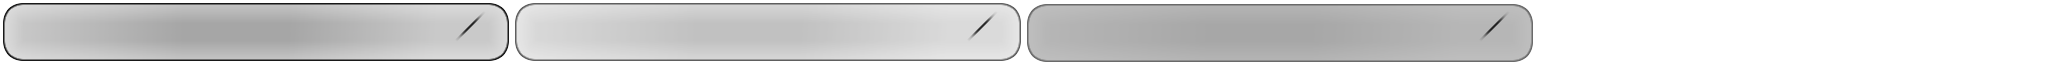
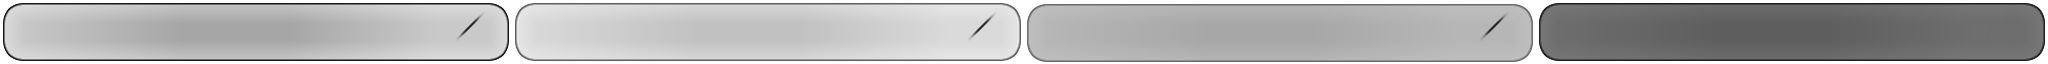
make cat select work.

Changed region(s): [[0.75, 0.0312, 1.0, 0.9688]]

diff --git a/logic/gui/category_select.py b/logic/gui/category_select.py
@@ -35,26 +35,26 @@ class GUI_category_select_container(GUI_element):
         GUI_category_go_back(self.game, self)
         self.mascot_object = Mascot_Category_Select(self.game)
 
-        category_names = OrderedDict([
-            ("Tutorial", (.5, 1.0, .5)),
-            ("Effortless", (1.0, .5, .5)),
-            ("Light", (1.0, .5, .5)),
-            ("Piece Of Cake", (.5, 1.0, 1.0)),
-            ("Uncomplicated", (1.0, .5, 1.0)),
-            ("Manageable", (1.0, 1.0, .5)),
-            ("Troublesome", (1.0, 1.0, .5)),
-            ("Formidable", (1.0, 1.0, .5)),
-            ("Demanding", (1.0, 1.0, .5)),
-            ("Heavy", (1.0, 1.0, .5)),
-            ("Challenging!", (1.0, 1.0, .5))
-            ])
+        categories = [
+            ("Tutorial",      "0001", (.5, 1.0, .5)),
+            ("Effortless",    "0002", (1.0, .5, .5)),
+            ("Light",         "0003", (1.0, .5, .5)),
+            ("Piece Of Cake", "0004", (.5, 1.0, 1.0)),
+            ("Uncomplicated", "0005", (1.0, .5, 1.0)),
+            ("Manageable",    "0006", (1.0, 1.0, .5)),
+            ("Troublesome",   "0007", (1.0, 1.0, .5)),
+            ("Formidable",    "0008", (1.0, 1.0, .5)),
+            ("Demanding",     "0009", (1.0, 1.0, .5)),
+            ("Heavy",         "0010", (1.0, 1.0, .5)),
+            ("Challenging!",  "0011", (1.0, 1.0, .5))
+            ]
         self.category_objs = []
 
         i = 0
         self.last_category = None
         self.first_category = None
-        for name,colour in category_names.items():
-            self.last_category = GUI_category_select_select_category_button(self.game, self, i, name, colour)
+        for name,pack_dir,colour in categories:
+            self.last_category = GUI_category_select_select_category_button(self.game, self, i, pack_dir, name, colour)
             self.category_objs.append(self.last_category)
             if self.first_category is None:
                 self.first_category = self.last_category
@@ -108,10 +108,11 @@ class GUI_category_select_select_category_button(GUI_element_button):
     generic_button = False
     objs = {}
     
-    def __init__(self, game, parent = None, num = 0, name = "? ? ? ? ?", colour = (1.0, 1.0, 1.0)):
+    def __init__(self, game, parent = None, num = 0, pack_dir = "", name = "? ? ? ? ?", colour = (1.0, 1.0, 1.0)):
         Process.__init__(self)
         self.game = game
         self.parent = parent
+        self.pack_dir = pack_dir
         self.z = self.parent.z - 1
         self.image = self.game.core.media.gfx['gui_button_select_category']
         self.gui_init()
@@ -128,30 +129,36 @@ class GUI_category_select_select_category_button(GUI_element_button):
         text.shadow_colour = (.2, .2, .2)
         self.objs['cat_name'] = text
 
-        text = Text(self.game.core.media.fonts['category_button_completed_count'], 0, 0, TEXT_ALIGN_TOP_RIGHT, "10")
-        text.z = self.z - 1
-        text.colour = (1.0, 1.0, 1.0)
-        text.shadow = 2
-        text.shadow_colour = (.2, .2, .2)
-        self.objs['completed_count'] = text
+        if not self.pack_dir in self.game.player.unlocked_categories:
+            self.objs['status_icon'] = GUI_category_locked(self.game)
+            self.colour = (1.0, 1.0, 1.0)
+            self.disabled = True
+        else:
+            completed = len(self.game.player.cleared_puzzles[self.pack_dir]) if self.pack_dir in self.game.player.cleared_puzzles else 0
+            text = Text(self.game.core.media.fonts['category_button_completed_count'], 0, 0, TEXT_ALIGN_TOP_RIGHT, str(completed))
+            text.z = self.z - 1
+            text.colour = (1.0, 1.0, 1.0)
+            text.shadow = 2
+            text.shadow_colour = (.2, .2, .2)
+            self.objs['completed_count'] = text
 
-        text = Text(self.game.core.media.fonts['category_button_total_count'], 0, 0, TEXT_ALIGN_TOP_LEFT, "15")
-        text.z = self.z - 1
-        text.colour = (1.0, 1.0, 1.0)
-        text.shadow = 2
-        text.shadow_colour = (.2, .2, .2)
-        self.objs['total_count'] = text
+            text = Text(self.game.core.media.fonts['category_button_total_count'], 0, 0, TEXT_ALIGN_TOP_LEFT, str(len(self.game.manager.game_packs[self.pack_dir].puzzles)))
+            text.z = self.z - 1
+            text.colour = (1.0, 1.0, 1.0)
+            text.shadow = 2
+            text.shadow_colour = (.2, .2, .2)
+            self.objs['total_count'] = text
 
-        text = Text(self.game.core.media.fonts['category_button_total_count'], 0, 0, TEXT_ALIGN_TOP_LEFT, "solved")
-        text.z = self.z - 1
-        text.colour = (1.0, 1.0, 1.0)
-        text.shadow = 1
-        text.shadow_colour = (.2, .2, .2)
-        self.objs['solved'] = text
+            text = Text(self.game.core.media.fonts['category_button_total_count'], 0, 0, TEXT_ALIGN_TOP_LEFT, "solved")
+            text.z = self.z - 1
+            text.colour = (1.0, 1.0, 1.0)
+            text.shadow = 1
+            text.shadow_colour = (.2, .2, .2)
+            self.objs['solved'] = text
 
-        #self.objs['status_icon'] = GUI_category_completed_tick(self.game)
-        self.objs['status_icon'] = GUI_category_locked(self.game)
-
+            if self.pack_dir in self.game.player.cleared_categories:
+                self.objs['status_icon'] = GUI_category_completed_tick(self.game)
+            
         self.update_obj_positions()
 
 
@@ -163,17 +170,21 @@ class GUI_category_select_select_category_button(GUI_element_button):
         self.objs['cat_name'].x = self.x + (self.image.width/2) - 32
         self.objs['cat_name'].y = self.y + (self.image.height/2)
 
-        self.objs['completed_count'].x = self.x + 460
-        self.objs['completed_count'].y = self.y + 6
+        if 'completed_count' in self.objs:
+            self.objs['completed_count'].x = self.x + 460
+            self.objs['completed_count'].y = self.y + 6
 
-        self.objs['total_count'].x = self.x + 470
-        self.objs['total_count'].y = self.y + 27
+        if 'total_count' in self.objs:
+            self.objs['total_count'].x = self.x + 470
+            self.objs['total_count'].y = self.y + 27
 
-        self.objs['solved'].x = self.x + 437
-        self.objs['solved'].y = self.y + 40
+        if 'solved' in self.objs:
+            self.objs['solved'].x = self.x + 437
+            self.objs['solved'].y = self.y + 40
 
-        self.objs['status_icon'].x = self.x + 64
-        self.objs['status_icon'].y = self.y + 32
+        if 'status_icon' in self.objs:
+            self.objs['status_icon'].x = self.x + 64
+            self.objs['status_icon'].y = self.y + 32
 
 
     def mouse_left_up(self):

diff --git a/logic/puzzle.py b/logic/puzzle.py
@@ -88,7 +88,7 @@ class Puzzle_manager(object):
     packs = []
     pack_directory_list = []
 
-    game_packs = []
+    game_packs = {}
     game_pack_directory_list = []
 
 
@@ -96,7 +96,7 @@ class Puzzle_manager(object):
         self.game = game
         self.load_packs()
         self.load_packs(user_created = False)
-
+        
 
     def load_packs(self, user_created = True):
         if user_created:
@@ -106,7 +106,7 @@ class Puzzle_manager(object):
             pack_directory_list = self.pack_directory_list
             pack_dir = self.game.core.path_user_pack_directory
         else:
-            self.game_packs = []
+            self.game_packs = {}
             self.game_pack_directory_list = []
             packs = self.game_packs
             pack_directory_list = self.game_pack_directory_list
@@ -116,23 +116,22 @@ class Puzzle_manager(object):
         cur_dir = os.getcwd()
         os.chdir(pack_dir)
         directories = glob.glob("*")
-
-        pack_directory_list = []
+        os.chdir(cur_dir)
         
         for dir in directories:
             if os.path.isdir(os.path.join(pack_dir, dir)) and os.path.exists(os.path.join(pack_dir, dir, FILE_PACK_INFO_FILE)):
                 pack_directory_list.append(dir)
 
-        os.chdir(cur_dir)
         # Load all packs
-        for pack in pack_directory_list:
-            f = open(os.path.join(pack_dir, pack, FILE_PACK_INFO_FILE), "rb")
+        for pack_dir_name in pack_directory_list:
+            f = open(os.path.join(pack_dir, pack_dir_name, FILE_PACK_INFO_FILE), "rb")
             pack = pickle.load(f)
             f.close()
-            packs.append(pack)
-
-        pack_directory_list = pack_directory_list
-
+            if user_created:
+                packs.append(pack)
+            else:
+                packs[pack_dir_name] = pack
+                
 
     def load_pack(self, pack_dir):
         try:

diff --git a/logic/main.py b/logic/main.py
@@ -184,7 +184,8 @@ class Player(object):
     This object is responsible for the saved state of the player and
     their progess through the game.
     """
-    unlocked_categories = ["tut"]
+    unlocked_categories = ["0001", "0002"]
+    cleared_categories = ["0001"]
     cleared_puzzles = {}
     saved_puzzles = {}
     puzzle_scores = {}
